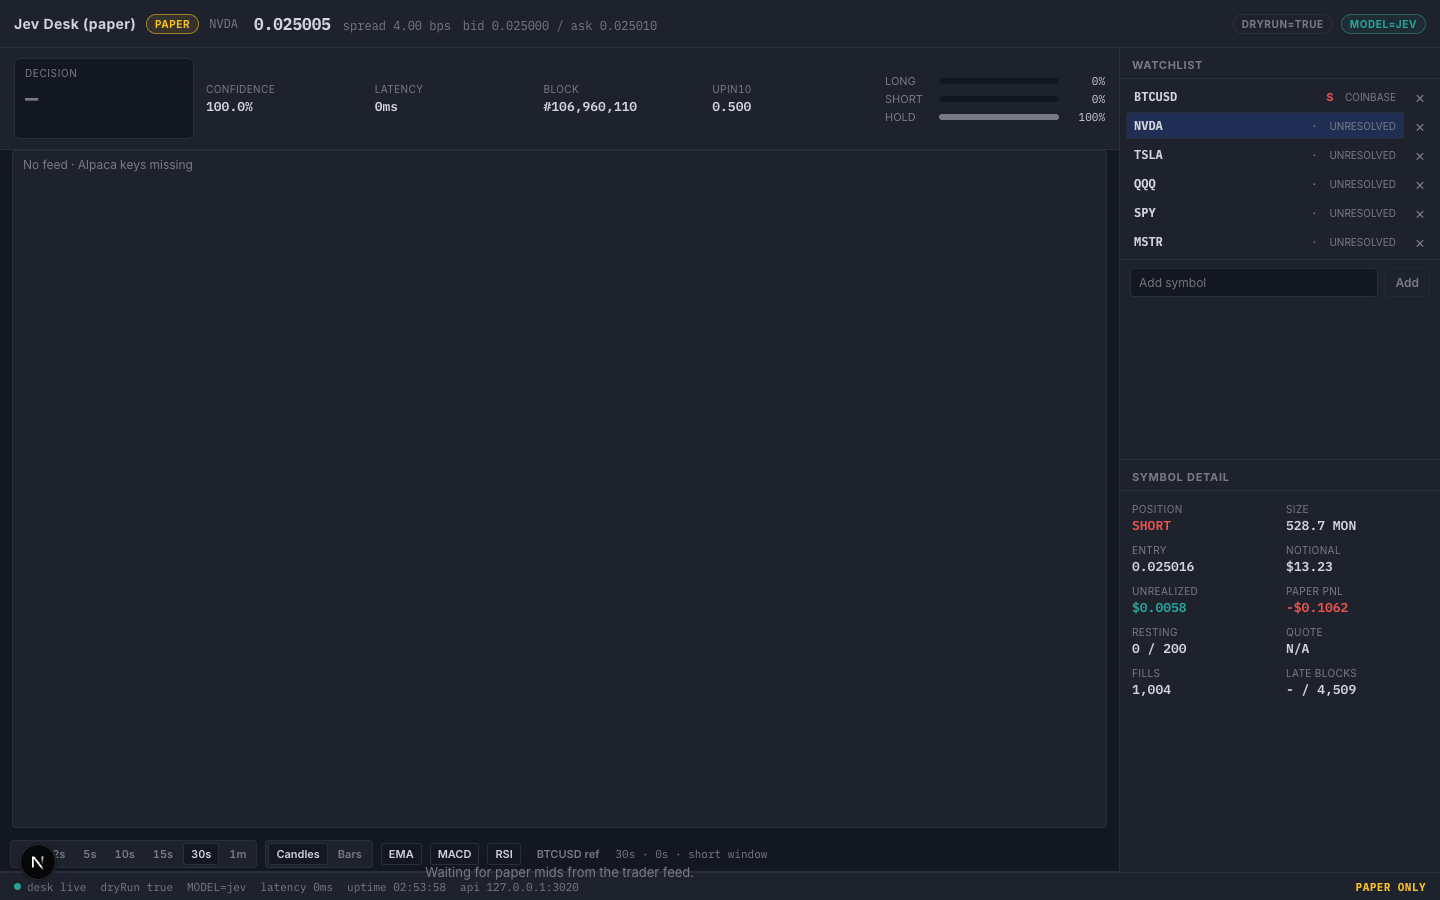
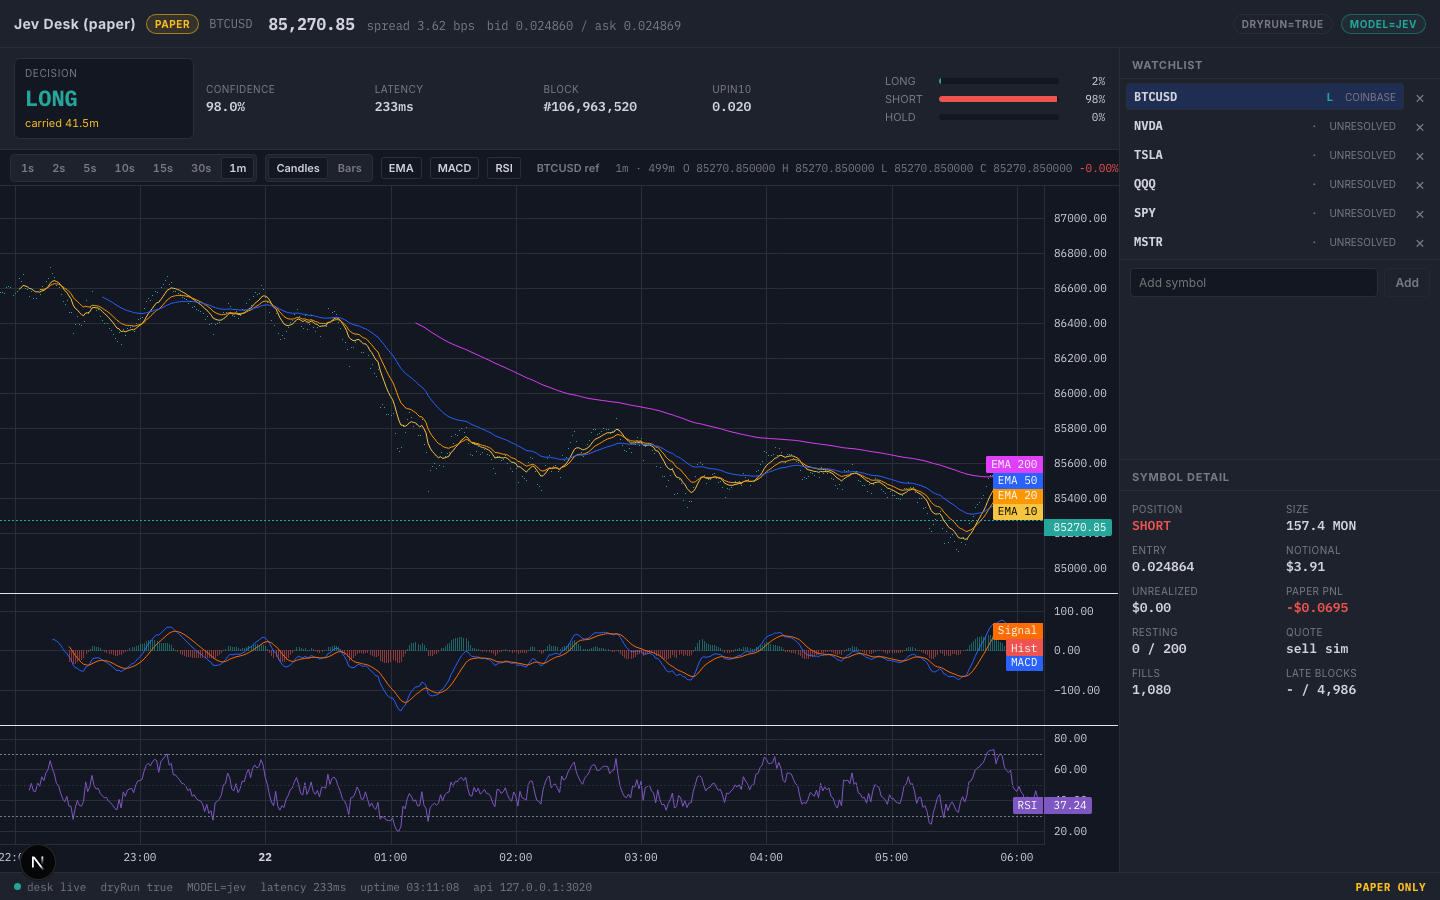
fix(desk): paint Phase 3 BTCUSD candles + durable mock desk
Keep autoScale on after fitContent so history backfill is not blanked,
reset series/TF lock on symbol change, pick 1m for long bar spans, and
show desk last mid in the quote strip. Refresh phase3-desktop.png on
BTCUSD with lit candles for Jerry eyeball. No Phase 4.

diff --git a/web/src/components/Desk/ChartStack.tsx b/web/src/components/Desk/ChartStack.tsx
@@ -76,6 +76,7 @@ export default function ChartStack(props: ChartStackProps) {
   const frozenRef = useRef<Candle[]>([]);
   const lockedBucketRef = useRef<number | null>(null);
   const dataKeyRef = useRef("");
+  const lastOhlcLenRef = useRef(0);
   const scaleLockedRef = useRef(false);
   const btcKeyRef = useRef("");
 
@@ -85,6 +86,19 @@ export default function ChartStack(props: ChartStackProps) {
   const [showMacd, setShowMacd] = useState(true);
   const [showRsi, setShowRsi] = useState(true);
 
+  // Symbol / series change must drop frozen candles + auto-TF lock; otherwise a
+  // prior feed (e.g. MON mids) merges into BTC history and sticky scale blanks the pane.
+  const seriesGuardRef = useRef(seriesKey);
+  if (seriesGuardRef.current !== seriesKey) {
+    seriesGuardRef.current = seriesKey;
+    frozenRef.current = [];
+    lockedBucketRef.current = null;
+    dataKeyRef.current = "";
+    lastOhlcLenRef.current = 0;
+    scaleLockedRef.current = false;
+    btcKeyRef.current = "";
+  }
+
   const points = useMemo(() => eventMids(events), [events]);
   const span = spanMs(points);
   const short = isShortWindow(span, points.length);
@@ -92,6 +106,12 @@ export default function ChartStack(props: ChartStackProps) {
   const bucketMs = tfMs ?? lockedBucketRef.current ?? auto.bucketMs;
   const bucketLabel = TF_OPTIONS.find((t) => t.ms === bucketMs)?.label ?? auto.label;
 
+  // Relock auto-TF when history backfill arrives (2 live ticks must not freeze 1s).
+  const prevPtsRef = useRef(0);
+  if (points.length > prevPtsRef.current + 5) {
+    lockedBucketRef.current = null;
+  }
+  prevPtsRef.current = points.length;
   if (lockedBucketRef.current == null && points.length >= 2) {
     lockedBucketRef.current = auto.bucketMs;
   }
@@ -262,14 +282,6 @@ export default function ChartStack(props: ChartStackProps) {
     const price = priceRef.current;
     if (!price) return;
     const key = `${seriesKey}:${bucketMs}:${barStyle}`;
-    const reset = dataKeyRef.current !== key;
-    dataKeyRef.current = key;
-    if (reset) {
-      frozenRef.current = [];
-      scaleLockedRef.current = false;
-      btcKeyRef.current = "";
-    }
-
     const ohlc = candles
       .filter((c) => Number.isFinite(c.t0) && Number.isFinite(c.open) && Number.isFinite(c.close))
       .map((c) => ({
@@ -279,9 +291,37 @@ export default function ChartStack(props: ChartStackProps) {
         low: Number(c.low),
         close: Number(c.close),
       }));
+    // Empty first paint must not commit dataKey — otherwise the later bars-only
+    // update path paints a single candle and sticky scale locks to a blank pane.
+    if (!ohlc.length) {
+      if (dataKeyRef.current !== key) {
+        dataKeyRef.current = "";
+        lastOhlcLenRef.current = 0;
+        frozenRef.current = [];
+        scaleLockedRef.current = false;
+        btcKeyRef.current = "";
+        try {
+          price.setData([]);
+        } catch {
+          /* ignore */
+        }
+      }
+      return;
+    }
+    // Live tick can arrive before history backfill; jumping from 1 -> N bars
+    // must setData the full series (update-only would leave a blank sticky pane).
+    const historyJump = ohlc.length > lastOhlcLenRef.current + 1;
+    const reset = dataKeyRef.current !== key || historyJump;
+    dataKeyRef.current = key;
+    lastOhlcLenRef.current = ohlc.length;
+    if (reset) {
+      frozenRef.current = [];
+      scaleLockedRef.current = false;
+      btcKeyRef.current = "";
+    }
     try {
       if (reset) price.setData(ohlc);
-      else if (ohlc.length) price.update(ohlc[ohlc.length - 1]!);
+      else price.update(ohlc[ohlc.length - 1]!);
     } catch (err) {
       // Recover from LWC time-order glitches without blanking the desk shell.
       console.warn("[ChartStack] price set/update failed; resetting series", err);
@@ -368,28 +408,17 @@ export default function ChartStack(props: ChartStackProps) {
     }
 
     const chart = chartRef.current;
-    // Fit + unlock autoScale only on TF/style reset (or first paint). Never on ticks.
+    // Fit only on TF/style/symbol reset (or first paint). Keep autoScale ON —
+    // locking autoScale:false in the same turn as fitContent was blanking the
+    // price pane (indicators still drew; candles sat off-scale).
     if (chart && ohlc.length && (reset || !scaleLockedRef.current)) {
-      const shouldFit = reset || !scaleLockedRef.current;
-      if (reset) {
-        scaleLockedRef.current = false;
-        chart.priceScale("right").applyOptions({ autoScale: true });
-        try {
-          chart.priceScale("btc").applyOptions({ autoScale: true });
-        } catch {
-          /* overlay scale may not exist yet */
-        }
-        chart.timeScale().fitContent();
-      } else if (shouldFit && !scaleLockedRef.current) {
-        // First paint only: one fit, then lock. Do not re-enter on later ticks.
-        chart.timeScale().fitContent();
-      }
-      chart.priceScale("right").applyOptions({ autoScale: false });
+      chart.priceScale("right").applyOptions({ autoScale: true });
       try {
-        chart.priceScale("btc").applyOptions({ autoScale: false });
+        chart.priceScale("btc").applyOptions({ autoScale: true });
       } catch {
-        /* ignore */
+        /* overlay scale may not exist yet */
       }
+      chart.timeScale().fitContent();
       scaleLockedRef.current = true;
     }
     } catch (err) {
@@ -402,6 +431,7 @@ export default function ChartStack(props: ChartStackProps) {
     lockedBucketRef.current = ms;
     frozenRef.current = [];
     dataKeyRef.current = "";
+    lastOhlcLenRef.current = 0;
     scaleLockedRef.current = false;
     btcKeyRef.current = "";
   }

diff --git a/web/src/components/Desk/Desk.tsx b/web/src/components/Desk/Desk.tsx
@@ -63,6 +63,11 @@ export default function Desk({
   const hint = feedHint(selected, desk.status, desk.bars.length + (desk.live ? 1 : 0));
   const chartEvents = desk.connection === "live" || desk.symbols.length ? desk.events : feed.events;
   const usingDesk = desk.connection === "live" || desk.events.length > 0;
+  const deskLast = desk.live?.c ?? (desk.bars.length ? desk.bars[desk.bars.length - 1]!.c : null);
+  const deskQuoteMid =
+    usingDesk && deskLast != null && Number.isFinite(deskLast)
+      ? deskLast.toLocaleString(undefined, { maximumFractionDigits: 6 })
+      : null;
   const showAction = usingDesk
     ? deskUi?.action === "buy"
       ? "LONG"
@@ -121,7 +126,7 @@ export default function Desk({
           <span className={styles.pair}>{desk.selected ?? "MULTI"}</span>
         </div>
         <div className={styles.quoteStrip}>
-          <span className={styles.last}>{view.mid}</span>
+          <span className={styles.last}>{deskQuoteMid ?? view.mid}</span>
           <span className={styles.muted}>{view.spread}</span>
           <span className={styles.muted}>{view.touch}</span>
         </div>

diff --git a/web/src/lib/series.ts b/web/src/lib/series.ts
@@ -90,7 +90,14 @@ export function chooseBucket(span: number): { bucketMs: number; label: string } 
       found = true;
     }
   }
-  return found ? best : fallback;
+  if (found) return best;
+  // Long spans (e.g. 500x1m desk bars) exceed the 90-bar cap on every bucket.
+  // Prefer the coarsest bucket that still yields >= 8 bars; else 1m.
+  for (let i = BUCKETS.length - 1; i >= 0; i--) {
+    const b = BUCKETS[i]!;
+    if (span / b.ms >= 8) return asBucket(b);
+  }
+  return asBucket(BUCKETS[BUCKETS.length - 1]!);
 }
 
 /** Floor a print onto a wall-clock bucket start (UTC ms). */
